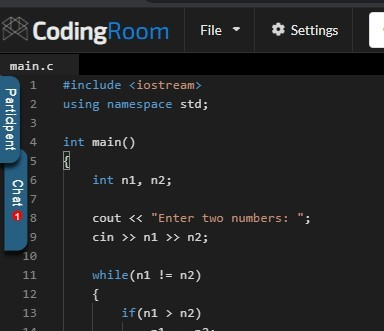
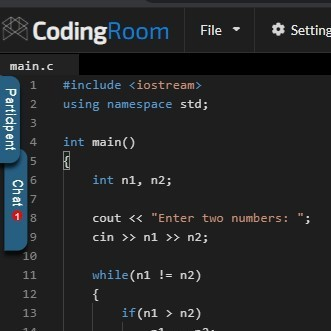
multiple editor themes added

diff --git a/public/index.html b/public/index.html
@@ -16,6 +16,7 @@
 
     <script src="/socket.io/socket.io.js"></script>
     <script type="text/javascript" src="./js/libs/mustache.js"></script>
+    <script type="text/javascript" src="https://unpkg.com/monaco-themes/dist/monaco-themes.js"></script>
     <script src="https://cdnjs.cloudflare.com/ajax/libs/jquery/3.4.1/jquery.min.js" integrity="sha256-CSXorXvZcTkaix6Yvo6HppcZGetbYMGWSFlBw8HfCJo=" crossorigin="anonymous"></script>
     <script src="https://cdnjs.cloudflare.com/ajax/libs/golden-layout/1.5.9/goldenlayout.min.js" integrity="sha256-NhJAZDfGgv4PiB+GVlSrPdh3uc75XXYSM4su8hgTchI=" crossorigin="anonymous"></script>
     <link rel="stylesheet" href="https://cdnjs.cloudflare.com/ajax/libs/golden-layout/1.5.9/css/goldenlayout-base.css" integrity="sha256-oIDR18yKFZtfjCJfDsJYpTBv1S9QmxYopeqw2dO96xM=" crossorigin="anonymous" />
@@ -43,6 +44,8 @@
 
     <script type="text/javascript" src="./third_party/download.js"></script>
     <script type="text/javascript" src="./js/libs/monaco-collab-ext.js"></script>
+    <script type="text/javascript" src="./js/editorTheme.js"></script>
+
 
     <script id="ide" type="text/javascript" src="./js/ide.js"></script>
     <!-- <script id="ide" type="text/javascript" src="./js/liveCodeStream.js"></script> -->
@@ -140,7 +143,13 @@
                     <div class="item admin send-prompt" onclick="sendCode()"><i class="file code icon "></i> Send To all</div>
                     <div class="item admin send-assignment" onclick="openAssignmentPopup('all')"><i class="file code icon "></i> Send Assignment</div>
                     <div class="item submit-as-assignment" onclick="run(true)"><i class="file code icon "></i> submit as Assignment</div>
-                    <!-- <div class="item"><i class="share icon"></i> Share</div> -->
+                    <!-- <div class=""> -->
+                        <select id=lang class = 'ui item dropdown'>
+                        <option value="">Themes</option>
+                        <option value="vs-dark" >Vs dark</option>
+                        <option value="vs">Vs Light</option>
+                        <option value="hc-black">hc-black</option>
+                      </select>
                     <!-- <div id="insert-template-btn" class="item"><i class="file code outline icon"></i> Insert template
                         for current language</div> -->
                 </div>
@@ -148,71 +157,36 @@
             <!-- <div class="link item" onclick="$('#site-settings').modal('show')"><i class="cog icon"></i> Settings</div> -->
             <div class="item borderless">
                 <select id="select-language" class="ui dropdown">
-                    <!-- <option value="45" mode="UNKNOWN">Assembly (NASM 2.14.02)</option> Unknown mode. Help needed. -->
                     <option value="46" mode="shell">Bash (5.0.0)</option>
-                    <!-- <option value="47" mode="UNKNOWN">Basic (FBC 1.07.1)</option> Unknown mode. Help needed. -->
-                    <!-- <option value="1011" mode="UNKNOWN">Bosque (latest)</option>  Unknown mode. Help needed. -->
                     <option value="75" mode="c">C (Clang 7.0.1)</option>
-                    <!-- <option value="1013" mode="c">C (Clang 9.0.1)</option> -->
-                    <!-- <option value="1001" mode="c">C (Clang 10.0.1)</option> -->
                     <option value="48" mode="c">C (GCC 7.4.0)</option>
                     <option value="49" mode="c">C (GCC 8.3.0)</option>
-                    <!-- <option value="50" mode="c">C (GCC 9.2.0)</option> -->
                     <option value="51" mode="csharp">C# (Mono 6.6.0.161)</option>
-                    <!-- <option value="1017" mode="csharp">C# (Mono 6.10.0.104)</option> -->
-                    <!-- <option value="1016" mode="csharp">C# (.NET Core SDK 3.1.302)</option> -->
-                    <!-- <option value="1018" mode="csharp">C# Test (.NET Core SDK 3.1.302, NUnit 3.12.0)</option> -->
                     <option value="76" mode="cpp">C++ (Clang 7.0.1)</option>
-                    <!-- <option value="1014" mode="cpp">C++ (Clang 9.0.1)</option> -->
-                    <!-- <option value="1002" mode="cpp">C++ (Clang 10.0.1)</option> -->
                     <option value="52" mode="cpp">C++ (GCC 7.4.0)</option>
                     <option value="53" mode="cpp">C++ (GCC 8.3.0)</option>
-                    <!-- <option value="54" mode="cpp">C++ (GCC 9.2.0)</option> -->
-                    <!-- <option value="1015" mode="cpp">C++ Test (Clang 10.0.1, Google Test 1.8.1)</option> -->
-                    <!-- <option value="1012" mode="cpp">C++ Test (GCC 8.4.0, Google Test 1.8.1)</option> -->
-                    <!-- <option value="1003" mode="c">C3 (latest)</option> Replacement mode. Help needed. -->
                     <option value="86" mode="clojure">Clojure (1.10.1)</option>
-                    <!-- <option value="77" mode="UNKNOWN">COBOL (GnuCOBOL 2.2)</option> Unknown mode. Help needed. -->
-                    <!-- <option value="55" mode="UNKNOWN">Common Lisp (SBCL 2.0.0)</option> Unknown mode. Help needed. -->
-                    <!-- <option value="56" mode="UNKNOWN">D (DMD 2.089.1)</option> Unknown mode. Help needed. -->
-                    <!-- <option value="57" mode="UNKNOWN">Elixir (1.9.4)</option> Unknown mode. Help needed. -->
-                    <!-- <option value="58" mode="UNKNOWN">Erlang (OTP 22.2)</option> Unknown mode. Help needed. -->
                     <option value="44" mode="plaintext">Executable</option>
                     <option value="87" mode="fsharp">F# (.NET Core SDK 3.1.202)</option>
                     <option value="1019" mode="fsharp">F# (.NET Core SDK 3.1.302)</option>
-                    <!-- <option value="59" mode="UNKNOWN">Fortran (GFortran 9.2.0)</option> Unknown mode. Help needed. -->
                     <option value="60" mode="go">Go (1.13.5)</option>
-                    <!-- <option value="88" mode="UNKNOWN">Groovy (3.0.3)</option> Unknown mode. Help needed. -->
-                    <!-- <option value="61" mode="UNKNOWN">Haskell (GHC 8.8.1)</option> Unknown mode. Help needed. -->
                     <option value="62" mode="java">Java (OpenJDK 13.0.1)</option>
-                    <!-- <option value="1004" mode="java">Java (OpenJDK 14.0.1)</option> -->
-                    <!-- <option value="1005" mode="java">Java Test (OpenJDK 14.0.1, JUnit Platform Console Standalone 1.6.2)</option> -->
                     <option value="63" mode="javascript">JavaScript (Node.js 12.14.0)</option>
                     <option value="78" mode="kotlin">Kotlin (1.3.70)</option>
                     <option value="64" mode="lua">Lua (5.3.5)</option>
-                    <!-- <option value="1006" mode="c">MPI (OpenRTE 3.1.3) with C (GCC 8.3.0)</option> -->
-                    <!-- <option value="1007" mode="cpp">MPI (OpenRTE 3.1.3) with C++ (GCC 8.3.0)</option> -->
-                    <!-- <option value="1008" mode="python">MPI (OpenRTE 3.1.3) with Python (3.7.3)</option> -->
-                    <!-- <option value="1009" mode="python">Nim (stable)</option> Replacement mode. Help needed. -->
                     <option value="79" mode="objective-c">Objective-C (Clang 7.0.1)</option>
-                    <!-- <option value="65" mode="UNKNOWN">OCaml (4.09.0)</option> Unknown mode. Help needed. -->
-                    <!-- <option value="66" mode="UNKNOWN">Octave (5.1.0)</option> Unknown mode. Help needed. -->
                     <option value="67" mode="pascal">Pascal (FPC 3.0.4)</option>
                     <option value="85" mode="perl">Perl (5.28.1)</option>
                     <option value="68" mode="php">PHP (7.4.1)</option>
                     <option value="43" mode="plaintext">Plain Text</option>
-                    <!-- <option value="69" mode="UNKNOWN">Prolog (GNU Prolog 1.4.5)</option> Unknown mode. Help needed. -->
                     <option value="70" mode="python">Python (2.7.17)</option>
                     <option value="71" mode="python">Python (3.8.1)</option>
-                    <!-- <option value="1010" mode="python">Python for ML (3.7.3)</option> -->
                     <option value="80" mode="r">R (4.0.0)</option>
                     <option value="72" mode="ruby">Ruby (2.7.0)</option>
                     <option value="73" mode="rust">Rust (1.40.0)</option>
-                    <!-- <option value="81" mode="UNKNOWN">Scala (2.13.2)</option> Unknown mode. Help needed. -->
                     <option value="82" mode="sql">SQL (SQLite 3.27.2)</option>
                     <option value="83" mode="swift">Swift (5.2.3)</option>
                     <option value="74" mode="typescript">TypeScript (3.7.4)</option>
-                    <!-- <option value="84" mode="vb">Visual Basic.Net (vbnc 0.0.0.5943)</option> (vbnc 0.0.0.5943) -->
                 </select>
             </div>
             <!-- <div class="item fitted borderless wide screen only">
@@ -225,6 +199,13 @@
                     <input id="command-line-arguments" type="text" placeholder="Command line arguments"></input>
                 </div>
             </div>
+            <div class="item borderless wide screen only" >
+                <!-- <select id=lang class = 'ui dropdown'>
+                  <option value="vs-dark" selected>Default</option>
+                  <option value="vs">Vs Light</option>
+                  <option value="hc-black">hc-black</option>
+                </select> -->
+              </div>
             <div class="item no-left-padding borderless">
                 <button id="run-btn" class="ui primary labeled icon button"><i class="play icon"></i>Run (F9)</button>
             </div>

diff --git a/homePage/index.html b/homePage/index.html
@@ -28,7 +28,7 @@
 				  <div class="navbar-menu">
 					<ul class="navbar-links">
 					  <li class="navbar-item"><a class="navbar-link" href="/">Home</a></li>
-					  <li class="navbar-item"><a class="navbar-link" href="/">Introduction</a></li>
+					  <li class="navbar-item"><a class="navbar-link" href="/">Pricing</a></li>
 					  <li class="navbar-item"><a class="navbar-link" href="/dashboard">Dashboard</a></li>
 					  <li class="navbar-item"><a class="navbar-link" href="/codingboard/join">JoinRoom</a></li>
 					  <li class="navbar-item"><a class="navbar-link login" href="/login">Login</a></li>
@@ -126,6 +126,13 @@
 						<div class="content">
 							<h3>Live Chat</h3>
 							<p>In Coding Room we provide you with feature of live chating, which enalebles students and instructors to communicate easily. It gives students opportunity to ask question and discuss their doubt.</p>
+						</div>
+					</section>
+					<section class="spotlight">
+						<div class="image"><img src="images/live-code.jpg" alt="" /></div>
+						<div class="content">
+							<h3>Real-time student's Code dashboard</h3>
+							<p>The unified real-time dashboard hands you the power of seeing and interacting with every students’ coding pad in real time. The live coding dashboard enables each instructor to see every student’s coding, debugging, testing, and thinking processes in real-time. This allows you to provide 100% individualized feedback, help, and support to every student throughout the entire duration of a class at the moment they need it most</p>
 						</div>
 					</section>
 					<section class="spotlight">

diff --git a/public/js/adminWindow.js b/public/js/adminWindow.js
@@ -217,7 +217,7 @@ function getAssignmentCode(btn){
       
       let newEditor = monaco.editor.create(container.getElement()[0], {
           automaticLayout: true,
-          theme: "vs-dark",
+          // theme: "vs-dark",
           scrollBeyondLastLine: true,
           readOnly: state.readOnly,
           language: "cpp",
@@ -356,7 +356,8 @@ function addCollabExt(info,editor, sourceUserCursor){
     case 'boardChanged':
       editor.updateOptions({readOnly: false});
       editor.setValue(info.data.code);
-      editor.updateOptions({readOnly: true}); 
+      editor.updateOptions({readOnly: true});
+      monaco.editor.setModelLanguage(editor.getModel(), info.data.lang); 
       console.log('boardChanged data:',info);
       break;
     
@@ -386,7 +387,7 @@ function createStudentBoard(data){
   let newEditor = monaco.editor.create(codeArea, {
     automaticLayout: true,
     value:data.data.code,
-    theme: "vs-dark",
+    // theme: "vs-dark",
     scrollBeyondLastLine: true,
     readOnly: true,
     language: data.data.lang,

diff --git a/public/js/chat.js b/public/js/chat.js
@@ -260,7 +260,7 @@ socket.on("gotCode", function(data){
       
       let newEditor = monaco.editor.create(container.getElement()[0], {
           automaticLayout: true,
-          theme: "vs-dark",
+          // theme: "vs-dark",
           scrollBeyondLastLine: true,
           readOnly: state.readOnly,
           language: "cpp",
@@ -349,7 +349,7 @@ function changeBoardStream(){
           startStream(stream);
           previouslyStreamedEditor.push(activeEditorname);
         }
-        socket.emit("stream",{action:'boardChanged',code:stream.getValue()});
+        socket.emit("stream",{action:'boardChanged',code:stream.getValue(),lang:stream.getModel().getLanguageIdentifier().language});
       }
     });
     firstTimeStream = false;

diff --git a/public/js/chat_interaction.js b/public/js/chat_interaction.js
@@ -79,7 +79,7 @@ function addNewFile(isPrompt = false, name = ""){
             }
           let newEditor = monaco.editor.create(container.getElement()[0], {
               automaticLayout: true,
-              theme: "vs-dark",
+            //   theme: "vs-dark",
               scrollBeyondLastLine: true,
               readOnly: state.readOnly,
               language: "cpp",
